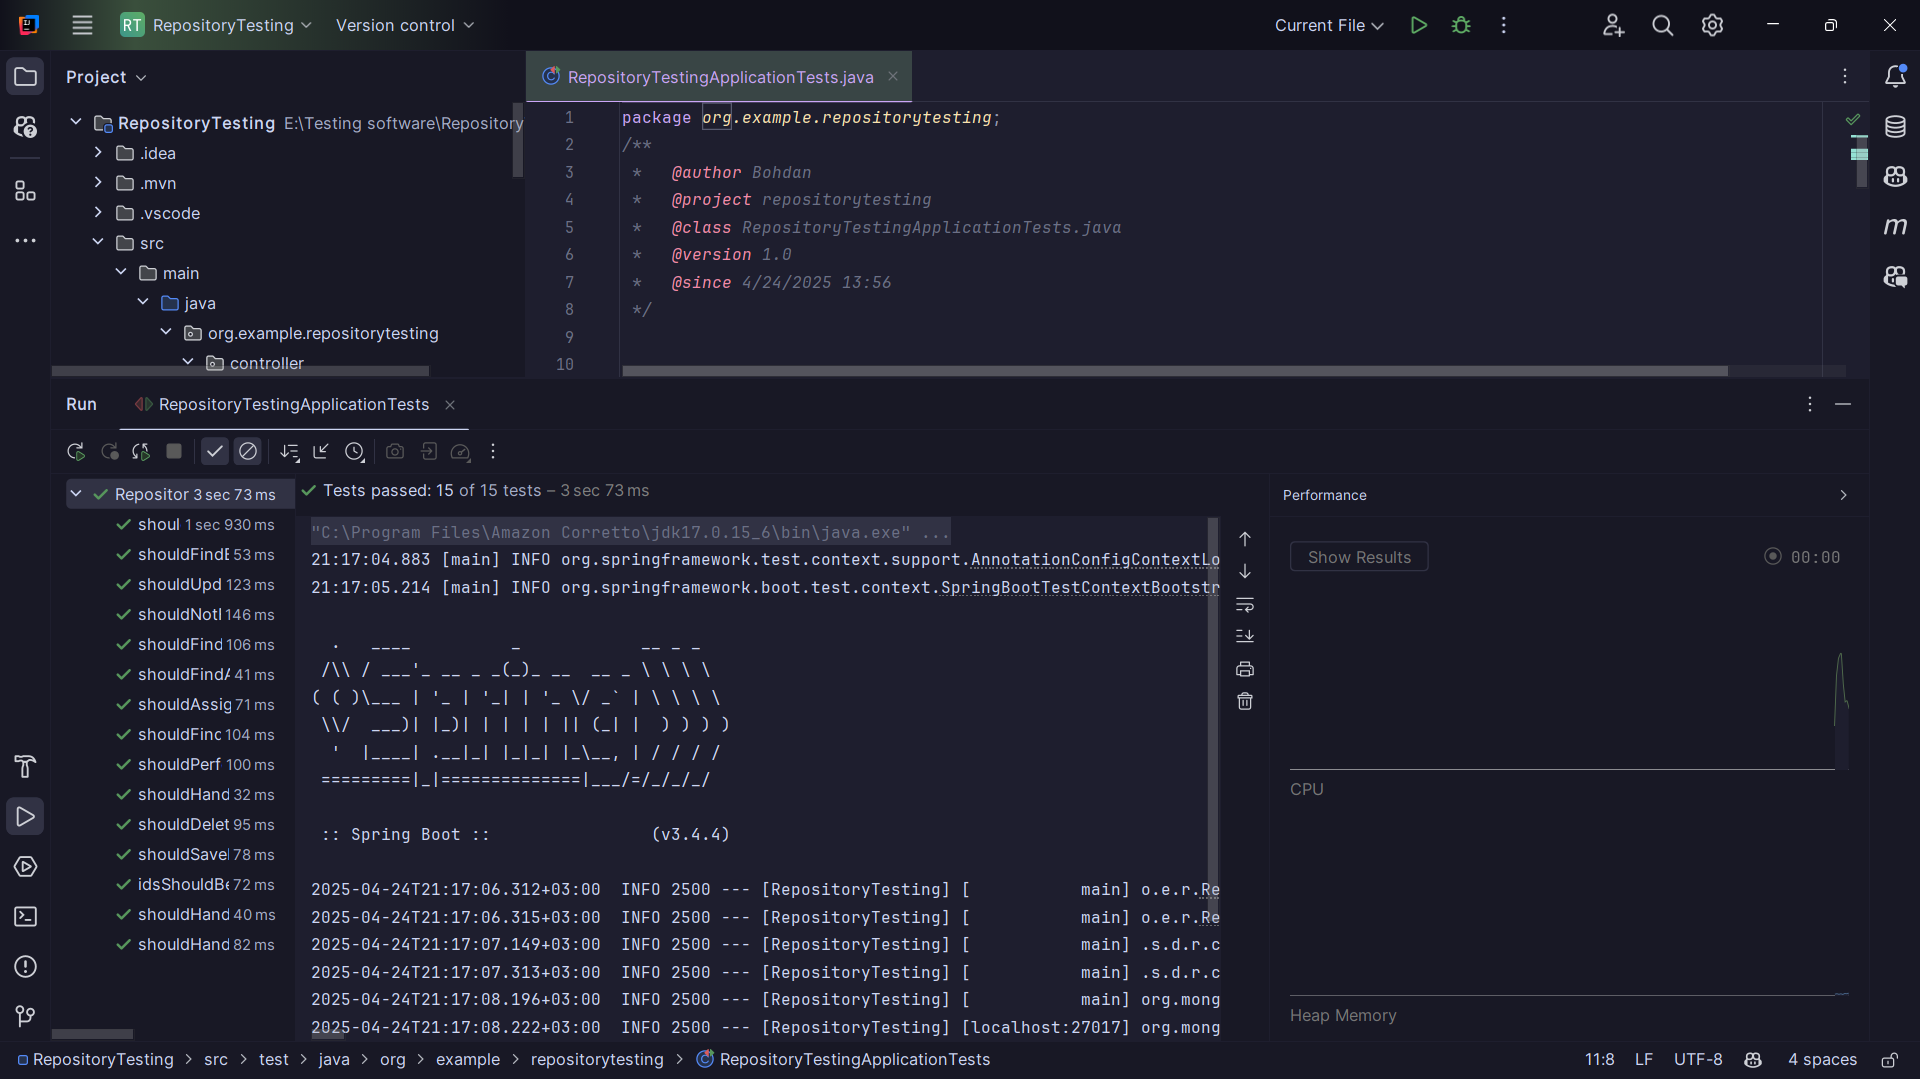
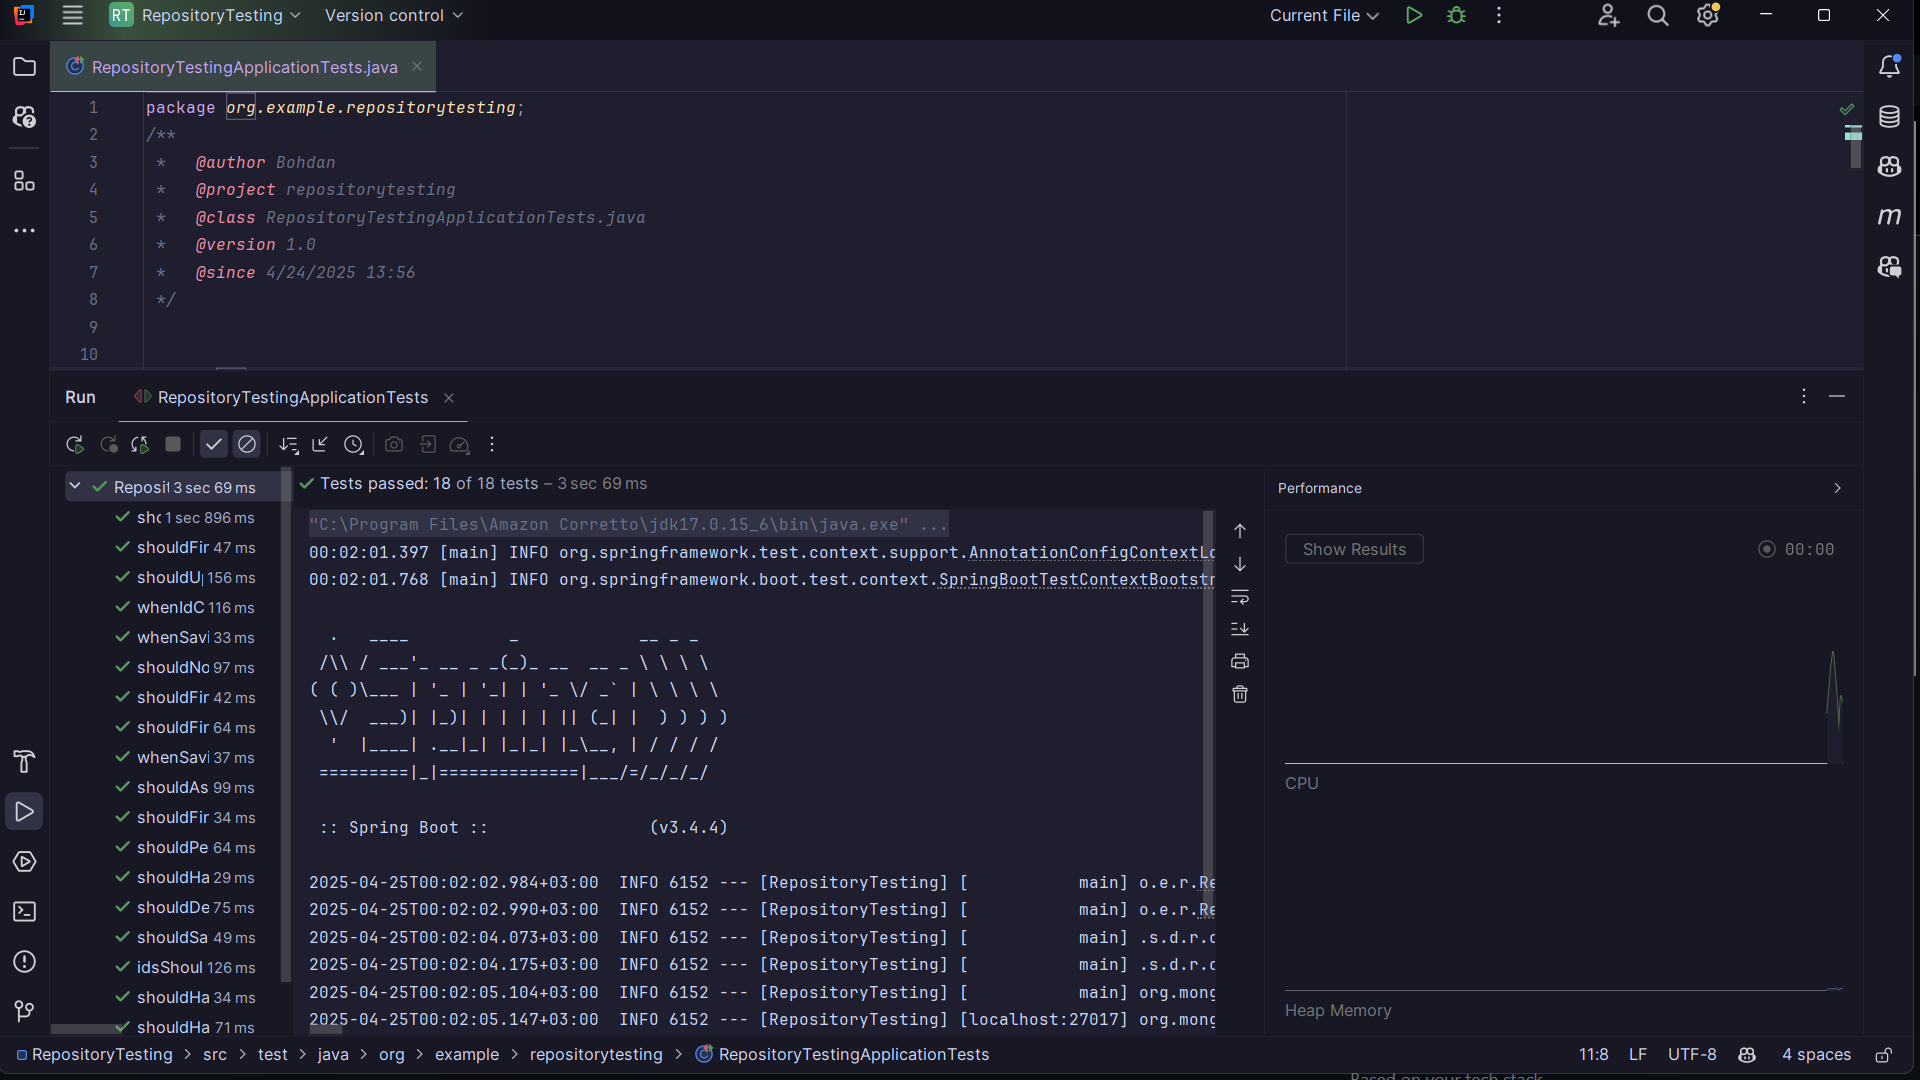
Add files via upload

diff --git a/RepositoryTesting/src/test/java/org/example/repositorytesting/RepositoryTestingApplicationTests.java b/RepositoryTesting/src/test/java/org/example/repositorytesting/RepositoryTestingApplicationTests.java
@@ -227,4 +227,69 @@ public class RepositoryTestingApplicationTests {
         // then
         assertEquals("Test@#$%", saved.getName());
     }
+
+    @Test
+    void whenSavingWithExistingIdThenShouldUpdate() {
+        // given
+        User initial = underTest.save(new User(null, "Initial", "Code", "###test"));
+        String existingId = initial.getId();
+        User updated = User.builder()
+                .id(existingId)
+                .name("Updated")
+                .code("NewCode")
+                .description("###test")
+                .build();
+        
+        // when
+        User result = underTest.save(updated);
+        
+        // then
+        assertEquals(existingId, result.getId());
+        assertEquals("Updated", result.getName());
+    }
+
+    @Test
+    void whenSavingMultipleWithSameIdThenLastWins() {
+        // given
+        String commonId = "test_id_123";
+        User first = User.builder()
+                .id(commonId)
+                .name("First")
+                .description("###test")
+                .build();
+        User second = User.builder()
+                .id(commonId)
+                .name("Second")
+                .description("###test")
+                .build();
+        
+        // when
+        underTest.save(first);
+        underTest.save(second);
+        User fromDb = underTest.findById(commonId).orElse(null);
+        
+        // then
+        assertNotNull(fromDb);
+        assertEquals("Second", fromDb.getName());
+    }
+
+    @Test
+    void whenIdContainsSpecialCharactersThenShouldSave() {
+        // given
+        String specialId = "test/id@123#$%";
+        User user = User.builder()
+                .id(specialId)
+                .name("Special")
+                .description("###test")
+                .build();
+        
+        // when
+        underTest.save(user);
+        User fromDb = underTest.findById(specialId).orElse(null);
+        
+        // then
+        assertNotNull(fromDb);
+        assertEquals(specialId, fromDb.getId());
+        assertEquals("Special", fromDb.getName());
+    }
 }
